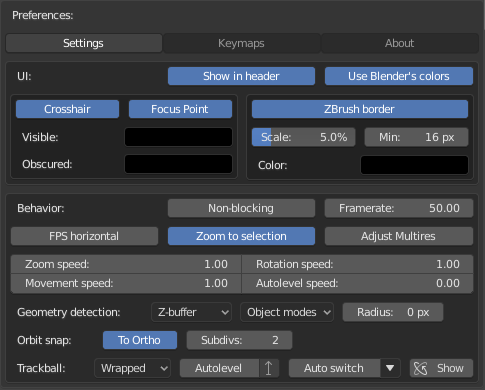
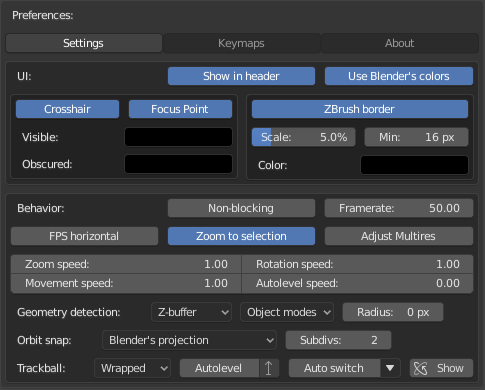
Mouselook Navigation: updated the documentation

Changed region(s): [[0.1856, 0.8308, 0.8041, 0.8923], [0.9897, 0.0, 1.0, 0.0615]]

diff --git a/docs/mouselook_navigation/mouselook_navigation.md b/docs/mouselook_navigation/mouselook_navigation.md
@@ -12,6 +12,8 @@
   * [Keymap management](#keymap-management)
   * [List of keymap configurations](#list-of-keymap-configurations)
   * [Keymap-specific options](#keymap-specific-options)
+* [Extras](#extras)
+  * [Subdivision level navigation](#subdivision-level-navigation)
 * [Known issues](#known-issues)
 
 ## Overview
@@ -28,6 +30,7 @@ The addon attempts to provide better usability and customization of basic 3D vie
 * Option to more easily prevent accidental viewport rotation in Ortho projection
 * Option to auto-level the view when it's tilted
 * Different turntable/trackball algorithms and different fly mode (more FPS-like)
+* Subdivision level navigation operator
 
 ### 3D Viewport
 
@@ -77,7 +80,11 @@ The addon attempts to provide better usability and customization of basic 3D vie
   * **Object modes** - in which object modes geometry detection should be used
   * **Radius** - distance (in pixels) to the nearest geometry, above which ZBrush navigation is allowed
 * **Orbit snap** (options for angle snapping during orbiting)
-  * **To Ortho** - if this and Blender's *Auto Perspective* preference are enabled, orbit snapping would switch the view to the Orthographic mode.
+  * **Projection** - if Blender's *Auto Perspective* preference is enabled, orbit snapping would switch the view to Orthographic or Perspective mode
+    * *Don't change projection* - stay in the original projection mode
+    * *Blender's projection* - use Blender's default Auto Perspective behavior
+    * *ON: Ortho, OFF: Perspective* - switch to Orthographic when snapping, and to Perspective otherwise
+    * *ON: Ortho, OFF: Original* - switch to Orthographic when snapping, and to the initial projection mode otherwise
   * **Subdivs** - number of intermediate angles to which the view rotation can be snapped (1 snaps to each 90 degrees, 2 snaps to each 45 degrees, and so on)
 * **Trackball** (options related to Trackball mode)
   * **Trackball mode** - which trackball algorithm to use
@@ -161,6 +168,23 @@ This section shows options for the selected keymap configuration (or the default
   * **Crouch** - "crouch" in Walk mode (when gravity is on)
   * **Jump** - "jump"/"jetpack" in Walk mode (automatically switches on gravity)
   * **Teleport** - "teleport"/"grappling hook" in Walk mode
+
+## Extras
+
+### Subdivision level navigation
+
+![Subdivision level navigation](subdivision-navigation.png)
+
+This is an operator for "navigating" between subdivision levels of *Multires / Subsurf / Subdivide* modifiers on selected objects (Blender has a similar operator called "Subdivision Set", but with fewer options). If you want to [make a shortcut](https://docs.blender.org/manual/en/latest/editors/preferences/keymap.html) for it, use the *mouselook_navigation.subdivision_navigate* operator identifier.
+
+Warning: if you use Blender versions earlier than 2.93, you may encounter problems when trying to undo the effects of this operator in Sculpt mode.
+
+* *Level* - the target subdivision level (if *Relative* is off) or subdivision level offset (if *Relative* is on)
+* *Relative* - whether to set a specific subdivision level or to increment/decrement it
+* *Auto subdivide* - automatically subdivide when necessary; also adds a subdivision modifier if the object has none (*Multiresolution* for Mesh objects in Sculpt mode, *Subdivide* for Grease Pencil objects, *Subdivision Surface* in other cases)
+* *Remove higher levels* - if level is decremented, remove all higher levels
+* *Subdivision method* - which method to use for subdividing
+* *Show dialog* (keymap-only option) - whether to show the dialog with options or to execute the operator immediately
 
 ## Known issues
 
